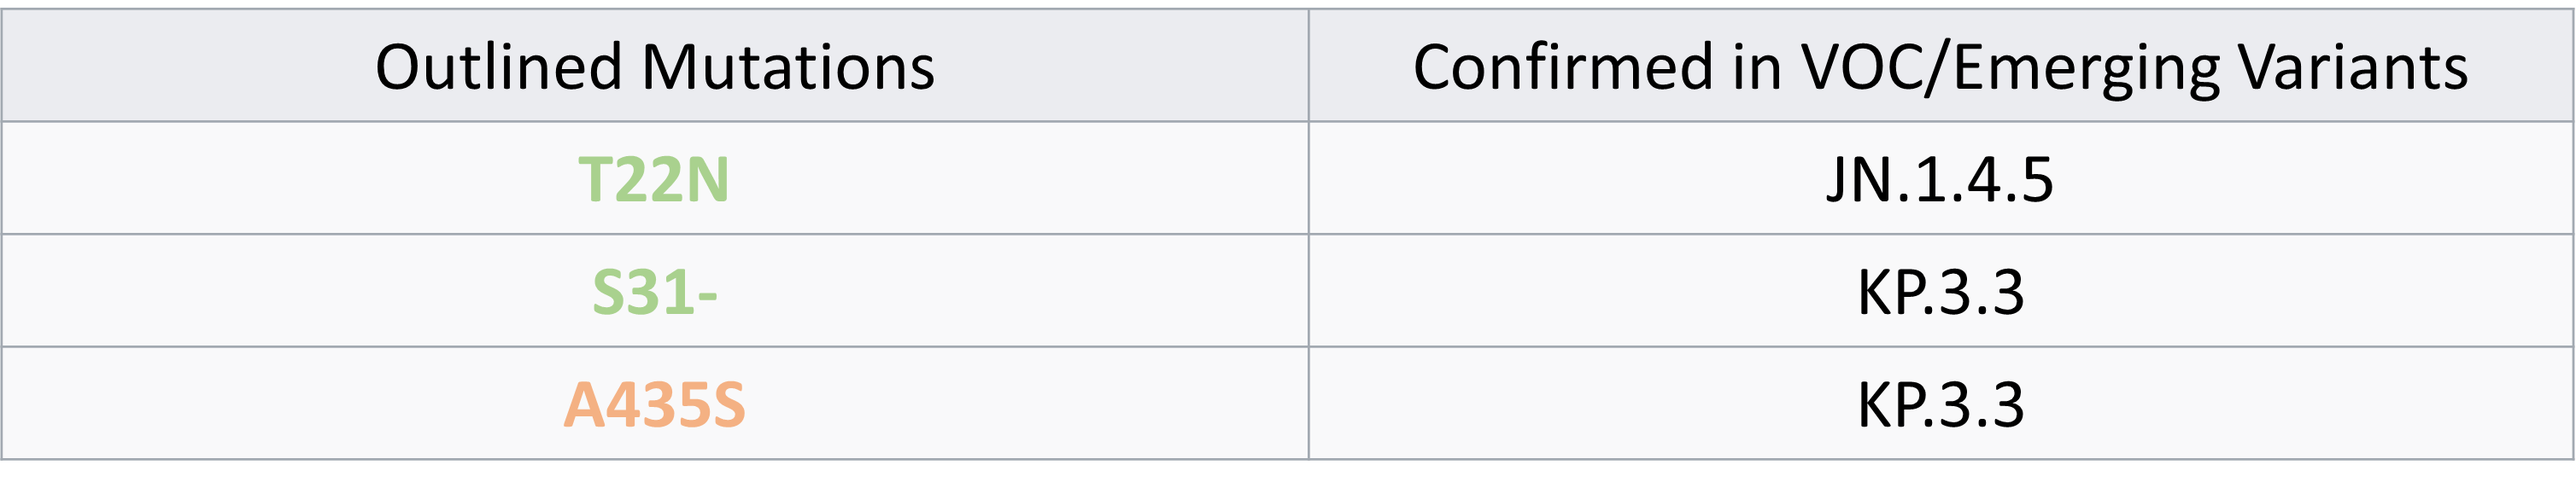
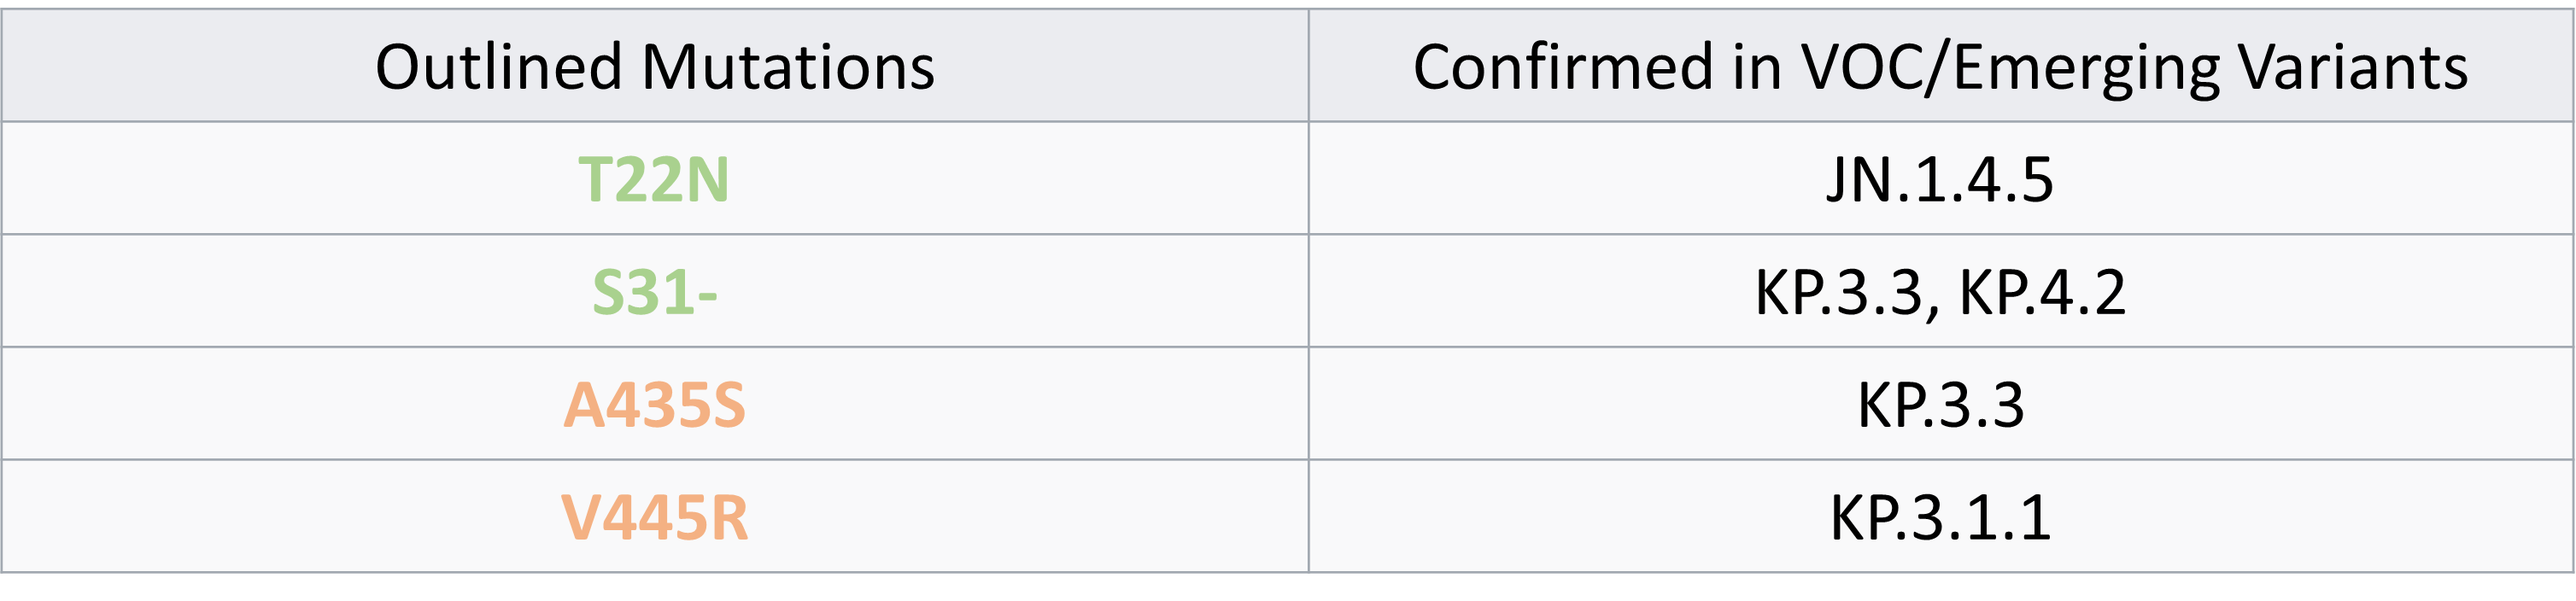
Updated outlined and captured leading mutations of 2024.12, 2025.01

diff --git a/_pages/Updates.md b/_pages/Updates.md
@@ -15,7 +15,7 @@ nav_order: 2
 $(document).ready(function(){
   $(".panel").hide();
   // Show latest panel
-  $("#panel-202412").show();
+  $("#panel-202501").show();
   $("#dateSelect").change(function(){
     $(".panel").hide();
     var selected = $(this).val();
@@ -36,6 +36,7 @@ $(document).ready(function(){
 
 <select id="dateSelect">
   <option value="">--Select Month--</option>
+  <option value="2025.01">2025.01</option>
   <option value="2024.12">2024.12</option>
   <option value="2024.11">2024.11</option>
   <option value="2024.10">2024.10</option>
@@ -62,13 +63,25 @@ $(document).ready(function(){
   <option value="2023.01">2023.01</option>
 </select>
 
+<div id="panel-202501" class="panel">
+  <h4><strong>Outlined Mutations in 2025.01</strong></h4>
+  <hr>
+  {% include figure.html path="assets/img/update_2501/2025-01.png" title="2025-01" class="img-fluid rounded z-depth-1" %}
+  <br>
+  <br>
+  <strong>2024.12.26-2025.01.08</strong>
+  <hr>
+  {% include figure.html path="assets/img/update_2501/confirmed_202501.png" title="confirmed_202501" class="img-fluid rounded z-depth-1" %}
+  <br>
+</div>
+
 <div id="panel-202412" class="panel">
   <h4><strong>Outlined Mutations in 2024.12</strong></h4>
   <hr>
   {% include figure.html path="assets/img/update_2412/2024-12.png" title="2024-12" class="img-fluid rounded z-depth-1" %}
   <br>
   <br>
-  <strong>2024.11.28-2024.12.17</strong>
+  <strong>2024.11.28-2024.12.25</strong>
   <hr>
   {% include figure.html path="assets/img/update_2412/confirmed_202412.png" title="confirmed_202412" class="img-fluid rounded z-depth-1" %}
   <br>

diff --git a/_news/announcement_3.md b/_news/announcement_3.md
@@ -1,9 +1,9 @@
 ---
 layout: post
-date: 2024-12-01 00:00:00
+date: 2025-01-01 00:00:00
 inline: true
 related_posts: false
 ---
 
-<a href="{{ '/Updates/' | relative_url }}" style="color: inherit;">Outlined leading mutations of 2024.12 are updated!</a>
+<a href="{{ '/Updates/' | relative_url }}" style="color: inherit;">Outlined leading mutations of 2025.01 are updated!</a>
 

diff --git a/_news/announcement_4.md b/_news/announcement_4.md
@@ -1,6 +1,6 @@
 ---
 layout: post
-date: 2024-12-17 12:30:00
+date: 2025-01-08 12:30:00
 inline: true
 related_posts: false
 ---
